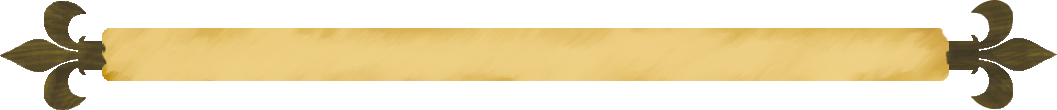
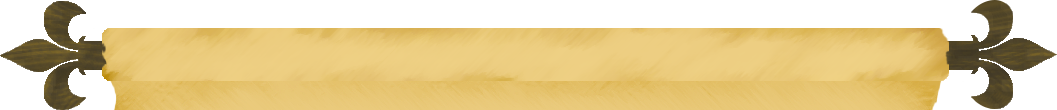
Created a prototype for "cards"
This is a fantasy styled card for one of the tables.

Changed region(s): [[0.0937, 0.7364, 0.9054, 1.0]]

diff --git a/web/assets/css/main.css b/web/assets/css/main.css
@@ -139,3 +139,130 @@ body {
 button, .btn {
   cursor: default !important;
 }
+
+/* -------------------------------------------------- start no_bootstrap.html -----------------------------------------*/
+
+#no-bootstrap-body {
+  font-family: 'Calligraffitti', cursive;
+}
+
+#no-bootstrap-body tr:hover {
+  color: white;
+}
+
+#test-header {
+  background: url("../../images/background/scroll_top.png") no-repeat;
+  -webkit-background-size: 100%;
+  background-size: 100%;
+  height: 75px;
+  width: 700px;
+  margin-bottom: 0;
+  padding-bottom: 0;
+}
+
+#test-content-background {
+  background: url("../../images/background/scroll_content.png") no-repeat;
+  -webkit-background-size: 100%;
+  background-size: 100%;
+  height: auto;
+  width: 700px;
+  color: black;
+  margin: -3px auto;
+}
+
+#test-footer {
+  background: url("../../images/background/scroll_bottom.png") no-repeat;
+  -webkit-background-size: 100%;
+  background-size: 100%;
+  height: 75px;
+  width: 700px;
+  margin-top: -19px;
+  position: relative;
+}
+
+/* Start Accordion */
+.accordion {
+  position: relative;
+  margin: 60px auto;
+  width: 80%;
+}
+
+[id*="open-accordion"], [id*="close-accordion"] {
+  padding-top: .5em;
+  display: block;
+  margin: 0 auto;
+  position: relative;
+  width: 99%;
+}
+
+[id*="close-accordion"] {
+  display: none;
+}
+
+.accordion a {
+  color: black;
+  font-size: 1.25em;
+  font-weight: normal;
+  padding-left: 15%;
+  text-decoration: none;
+  text-shadow: none;
+  padding-bottom: 1em;
+}
+
+[id*="open-accordion"]:after, [id*="close-accordion"]:after {
+  content: "";
+  border-left: 10px solid transparent;
+  border-right: 10px solid transparent;
+  border-top: 10px solid rgba(0, 0, 0, 0.75);
+  margin-left: 2.5%;
+  position: absolute;
+  top: 1em;
+  transform: rotate(-90deg);
+  -webkit-transform: rotate(-90deg);
+}
+
+.target-fix {
+  display: block;
+  top: 0;
+  left: 0;
+  position: fixed;
+}
+
+.accordion-content {
+  height: 0;
+  margin: auto 0;
+  padding-bottom: 0;
+  padding-left: 20%;
+  position: relative;
+  overflow: hidden;
+  width: 90%;
+  transition: all 0.1s ease;
+  -webkit-transition: all 0.1s ease;
+  -moz-transition: all 0.1s ease;
+}
+
+.accordion span:target ~ .accordion-content {
+  display: block;
+  height: auto;
+  padding-top: 10px;
+}
+
+.accordion span:target ~ [id*="close-accordion"] {
+  display: block;
+}
+
+.accordion span:target ~ [id*="open-accordion"] {
+  display: none;
+}
+
+.accordion span:target ~ [id*="close-accordion"]:after {
+  border-top: 10px solid #333;
+  transform: rotate(0deg);
+  -webkit-transform: rotate(0deg);
+}
+/*End Accordion*/
+
+.table-left-row tr>th {
+  text-align: left;
+}
+/* -------------------------------------------------- end no_bootstrap.html -----------------------------------------*/

diff --git a/web/no_bootstrap.html b/web/no_bootstrap.html
@@ -1,0 +1,82 @@
+<!DOCTYPE html>
+<html lang="en">
+  <head>
+    <meta charset="UTF-8">
+    <title>Player References</title>
+
+    <link href='https://fonts.googleapis.com/css?family=Calligraffitti' rel='stylesheet' type='text/css'>
+    <link rel="stylesheet" href="assets/css/main.css">
+    <link rel="import" href="assets/css/iron-flex-layout/iron-flex-layout.html">
+
+  </head>
+
+  <body id="no-bootstrap-body" class="fullbleed">
+    <div class="flex-container">
+      <div>
+        <div id="test-header"></div>
+        <!-- Start Typical Difficulty Classes Table -->
+        <div id="test-content-background" class="accordion">
+          <span id="accordion" class="target-fix"></span>
+
+          <div>
+            <span id="accordion1" class="target-fix"></span>
+
+            <!-- Link to open accordion, hidden when open-->
+            <a id="open-accordion1" href="#accordion1" title="open">Typical Difficulty Classes</a>
+
+            <!-- link to close accordion, hidden when closed-->
+            <a id="close-accordion1" href="#accordion" title="close">Typical Difficulty Classes</a>
+
+            <!-- 1st accordion content goes in this div -->
+            <div class="accordion-content">
+              <table class="table-left-row">
+                <tr>
+                  <th>Task Difficulty</th>
+                  <th>DC</th>
+                </tr>
+                <tr>
+                  <td>Trivial</td>
+                  <td>5</td>
+                </tr>
+                <tr>
+                  <td>Easy</td>
+                  <td>10</td>
+                </tr>
+                <tr>
+                  <td>Moderate</td>
+                  <td>15</td>
+                </tr>
+                <tr>
+                  <td>Hard</td>
+                  <td>20</td>
+                </tr>
+                <tr>
+                  <td>Very Hard</td>
+                  <td>25</td>
+                </tr>
+                <tr>
+                  <td>Nearly Impossible</td>
+                  <td>30</td>
+                </tr>
+              </table>
+            </div>
+      <!-- End Typical Difficulty Classes Table -->
+
+            <!-- Second Accordion Option -->
+            <!--<div>-->
+            <!--<span class="target-fix" id="accordion2"></span>-->
+            <!--<a href="#accordion2" id="open-accordion2" title="open">Second Accordion</a>-->
+            <!--<a href="#accordion" id="close-accordion2" title="close">Second Accordion</a>-->
+            <!--<div class="accordion-content">-->
+            <!--<p>Accordion 2 Content.</p>-->
+            <!--</div>-->
+          </div>
+        </div>
+        <div id="test-footer"></div>
+      </div>
+
+
+    </div>
+
+  </body>
+</html>

diff --git a/web/ability_checks.html b/web/ability_checks.html
@@ -18,7 +18,7 @@
 
   <body>
   <div class="flex-container container">
-    <div class="row col-md-8">
+    <div class="col-md-8">
       <!-- Start Skills Table -->
       <div class="panel-group" id="skills-accordion" role="tablist" aria-multiselectable="true">
         <div class="panel panel-primary">
@@ -194,8 +194,6 @@
         </div>
       </div>
       <!-- End Strength Table -->
-
-
       </div>
     </div>
   </body>
